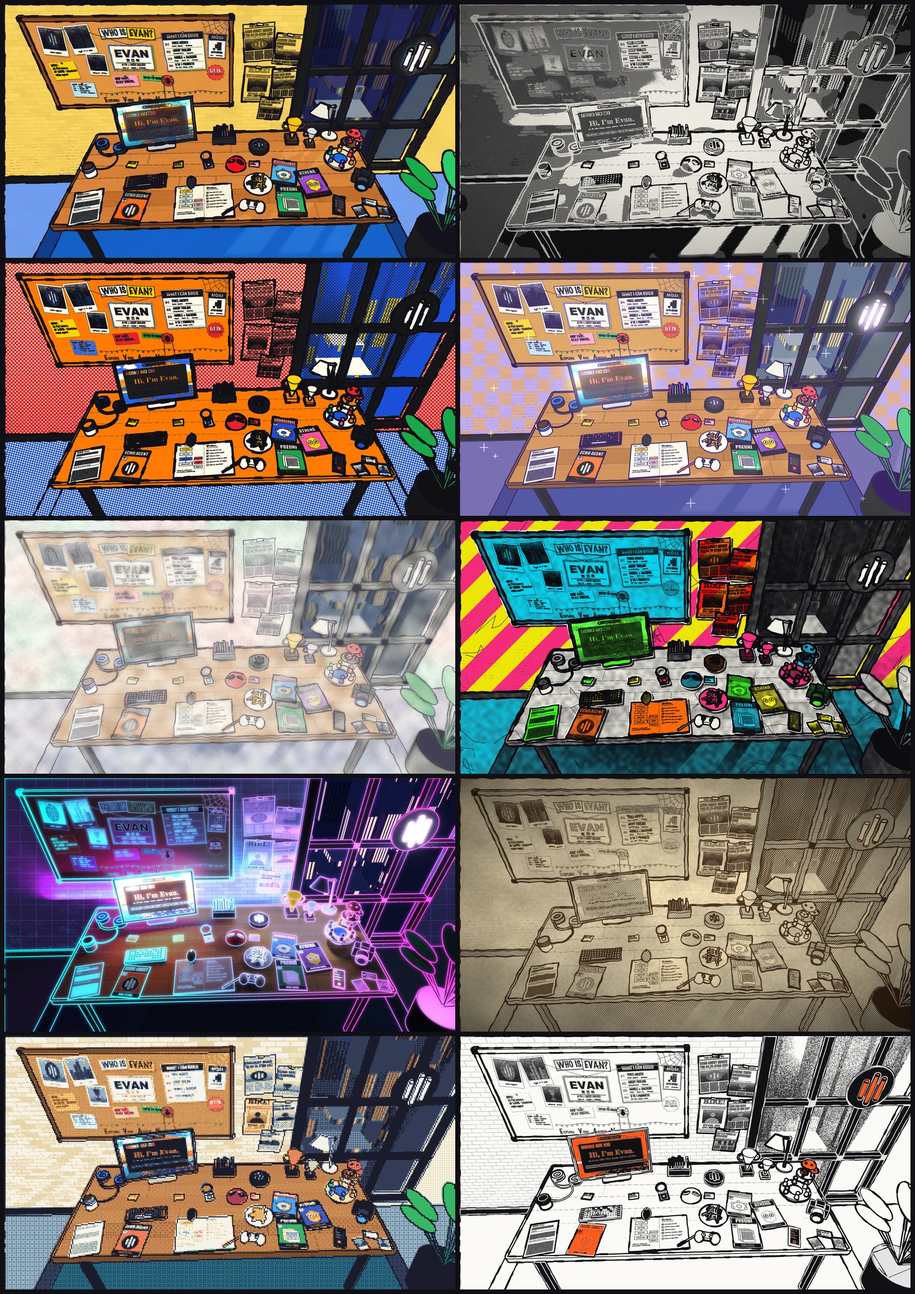
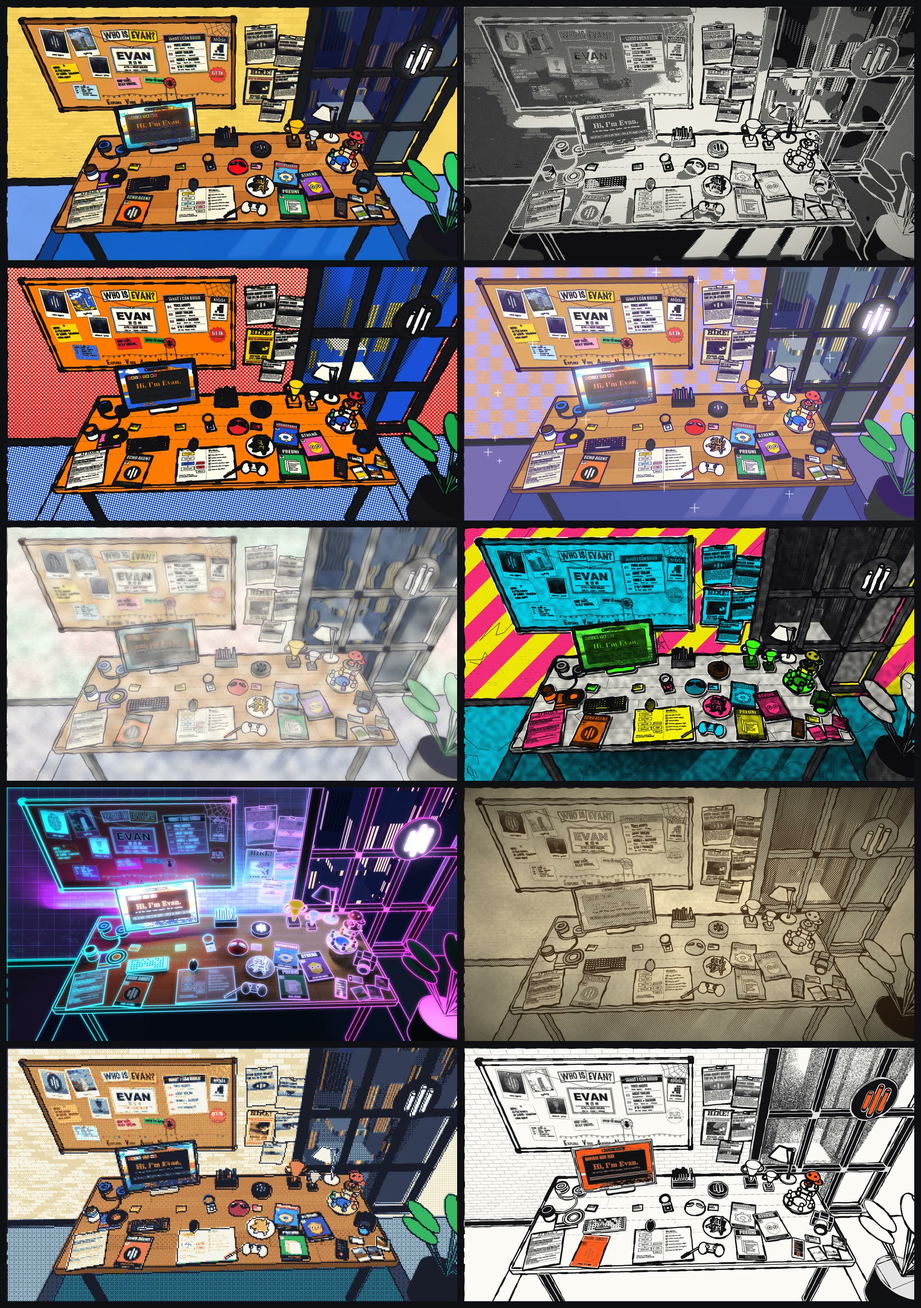
docs: show all ten universes and how to clone only 002
The preview sheet was rendered before the record and the new prints
went in and no README linked to it. Rebuild it from the current
renders and show it in 002/README.md.

The repository is 1.7 GB because 001/ keeps the original photos, so
the root README now gives the sparse clone for 002/ alone.

diff --git a/002/README.md b/002/README.md
@@ -3,6 +3,8 @@
 Blender 建模的工位场景，同一个机位渲染后合成 10 种印刷 / 漫画风格，网页里用 WebGL 切换。
 点桌上的蜘蛛面具或按空格换宇宙；点物件看对应的项目和经历，相机和拍立得是摄影集，报纸是新闻，笔记本是博客，手柄是全部项目，显示器是 AI 对话，唱片是能放歌的黑胶唱片机，杯子是友链蛛网。
 
+![十个宇宙](preview/ten-universes.jpg)
+
 整体创意（Blender 渲染一张工位，再切换多种画风）来自抖音 @硕哥，梦想哭了 的个人网站，感谢。这个仓库是照着那个思路，用 Claude + Blender 从头做的一版。
 
 ![制作思路](preview/how-its-made.jpg)

diff --git a/README.md b/README.md
@@ -11,6 +11,16 @@
 `002/` 的创意来自抖音 @硕哥，梦想哭了 的个人网站，用 Claude + Blender 做的。
 `002/` 里的摄影、新闻、博客、项目数据是从 `001/` 导入的，导入脚本在 `002/pipeline/import_legacy.mjs`。
 
+## 只想要现在这个站
+
+`001/` 里存着一千多张原图，整个仓库有 1.7 GB。只要 `002/` 的话，这样拉：
+
+```sh
+git clone --filter=blob:none --sparse https://github.com/EdwinjJ1/personal-website.git
+cd personal-website
+git sparse-checkout set 002
+```
+
 ## 许可
 
 代码以 [MIT](LICENSE) 协议开源。两个文件夹里的摄影作品、文字内容和个人形象不在此列，版权归作者所有。
